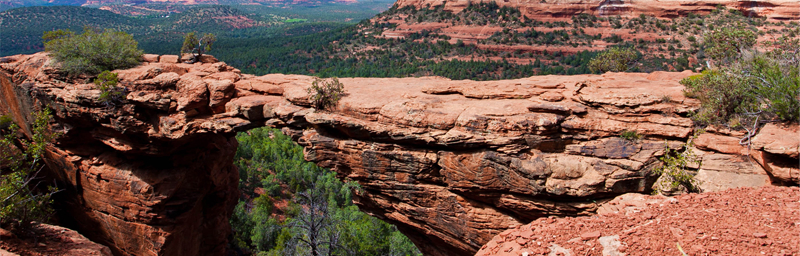
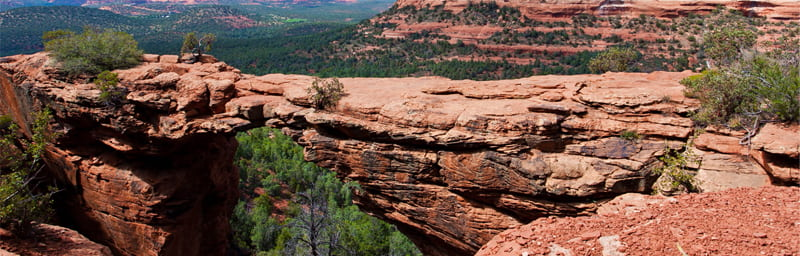
Дополнил графику

diff --git a/index.html b/index.html
@@ -35,7 +35,7 @@
           <p>- №1 -</p>
           <p>Седона - не аттракцион для туристов, там течёт своя жизнь</p>
         </div>
-      <img src="https://via.placeholder.com/150x100" alt="фото кафе в Седоне">
+      <img src="img/image1.jpg" width="800" height="256" alt="фото кафе в Седоне">
       </div>
       <div>
         <ul>
@@ -54,7 +54,7 @@
         </ul>
       </div>
       <div>
-        <img src="https://via.placeholder.com/150x100" alt="Фото каньона в Седоне">
+        <img src="img/image2.jpg" width="800" height="256" alt="Фото каньона в Седоне">
         <div>
           <h3>Там есть мост дьявола</h3>
           <p>- №2 -</p>

diff --git a/hotels.html b/hotels.html
@@ -23,6 +23,7 @@
       <h1>Поиск отеля</h1>
       <section>
         <h2>Поиск гостиницы</h2>
+        <!-- Здесь будет фон -->
         <div>
           <h3>Инфраструктура:</h3>
           <ul>
